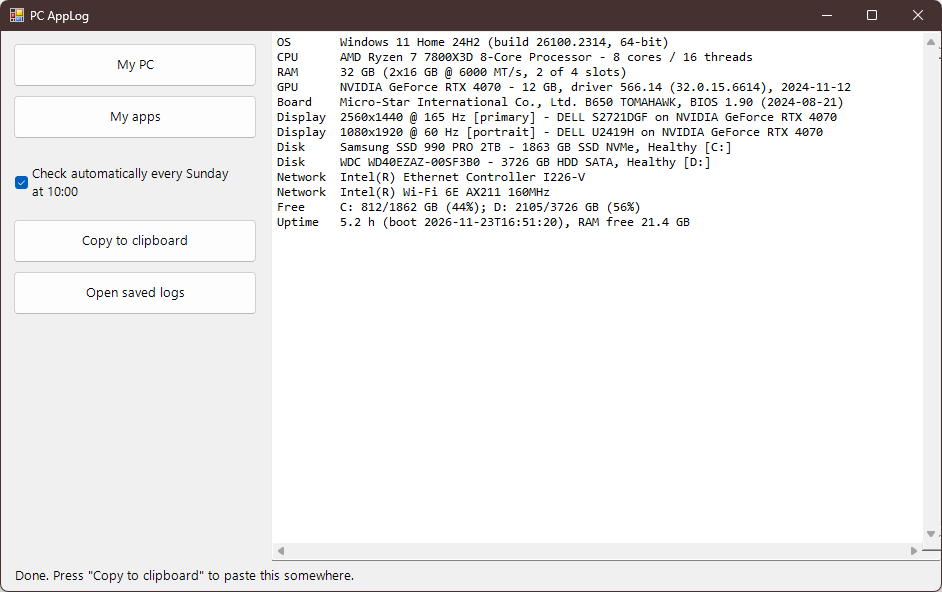
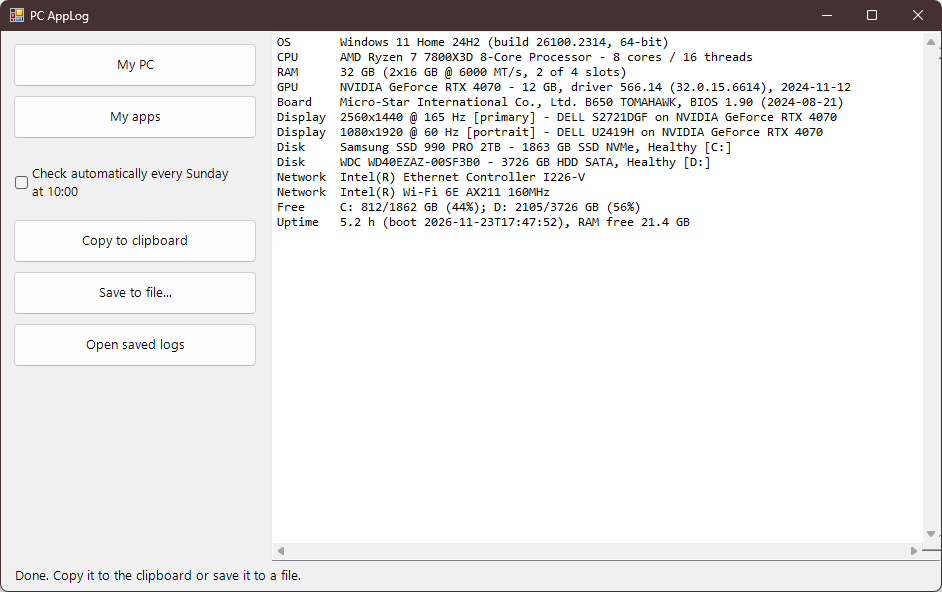
Save to file (TXT, MD, CSV, JSON) and a window that opens in under a second
Save to file:
- New "Save to file..." button next to Copy to clipboard. It saves the
  page on screen as plain text, Markdown, CSV or JSON.
- CSV has one row per spec item or per app (with a Section column for
  changes), a byte-order mark so spreadsheets read accents correctly,
  and a guard so a cell can never run as a formula.
- The My apps page is now built from data, and the screen text and every
  file format are made from the same data.

Faster start (about 2.2 s -> about 0.9 s on the development PC):
- Ask Task Scheduler directly whether the weekly task exists instead of
  starting schtasks.exe (about 1 s saved).
- Start.bat runs PowerShell in its own console instead of opening a
  second one. If Start.bat was typed in a terminal, the terminal is
  shown again when the window closes.
- No C# compile at start; font set-up is warmed on a second thread.
- tests/Measure-Startup.ps1 times double-click to visible window.

diff --git a/README.md b/README.md
@@ -7,6 +7,8 @@ A small, free tool for Windows 10 and 11. Double-click **Start**, press a button
 - **My PC**: your full specs in one short list, ready to paste into a support chat, an email or a forum post.
 - **My apps**: everything installed on the PC, plus what was added, removed or updated recently.
 
+Copy the result with one click, or save it as a text file, a Markdown note, a spreadsheet or JSON.
+
 ![The PC AppLog window after pressing My PC: a short list of the computer's parts](docs/screenshots/my-pc.png)
 
 <sub>The screenshots on this page show made-up sample data.</sub>
@@ -34,6 +36,7 @@ That is the whole setup. There is no installer, no account and no admin password
 | You are about to **reinstall Windows or move to a new PC** | **My apps** is the list of everything to install again. |
 | You help a **family member or friend** with their PC | Ask them to press one button and send you the result. |
 | You want to notice **apps that appeared without you asking** | Tick the weekly check, and look at **My apps** now and then. |
+| You want the list in a **spreadsheet, your notes or another program** | Press **Save to file** and pick the type. |
 
 ## What it looks like
 
@@ -47,7 +50,17 @@ That is the whole setup. There is no installer, no account and no admin password
 | **My apps** | Everything installed, plus what was added, removed or updated. |
 | **Check automatically every Sunday at 10:00** | Tick it and the check runs by itself once a week. Untick it to stop. |
 | **Copy to clipboard** | Copies what is on screen so you can paste it anywhere. |
+| **Save to file...** | Saves what is on screen as a file. You pick the type (see below). |
 | **Open saved logs** | Opens the folder where results are kept. |
+
+### File types for Save to file
+
+| Type | Good for |
+|---|---|
+| Plain text (`.txt`) | Email, printing, or anywhere that just needs words. Same as what you see on screen. |
+| Markdown (`.md`) | Notes apps, GitHub, Reddit and other places that turn Markdown into neat tables. |
+| Spreadsheet (`.csv`) | Excel, Google Sheets or LibreOffice. One row per part or per app, so you can sort and filter. |
+| JSON (`.json`) | Other programs and scripts. |
 
 ## Is it safe?
 
@@ -73,6 +86,9 @@ Short answer: it only looks, it does not touch.
 Nothing else is left behind.
 
 ## Questions
+
+**How fast does it open?**
+About one second on the PC it was built on. The very first start after downloading takes a little longer.
 
 **Where are my results?**
 In the `logs` folder next to **Start**. The **Open saved logs** button takes you there.
@@ -160,7 +176,7 @@ JSON, UTF-8, no BOM. Snapshots are written only when something changed, so the f
 
 ### Tests and screenshots
 
-`tests\Smoke.ps1` runs both tools into a temporary folder and checks the output (exit codes, JSON, no false changes), then opens the window off-screen and presses each button. It runs on every push. `tests\Make-Screenshots.ps1` regenerates the pictures on this page from sample data. Neither folder is in the download ZIP.
+`tests\Smoke.ps1` runs both tools into a temporary folder and checks the output (exit codes, JSON, no false changes), then opens the window off-screen and presses each button. It runs on every push. `tests\Make-Screenshots.ps1` regenerates the pictures on this page from sample data. `tests\Measure-Startup.ps1` times how long the window takes to appear (the budget is under one second). Neither folder is in the download ZIP.
 
 </details>
 
